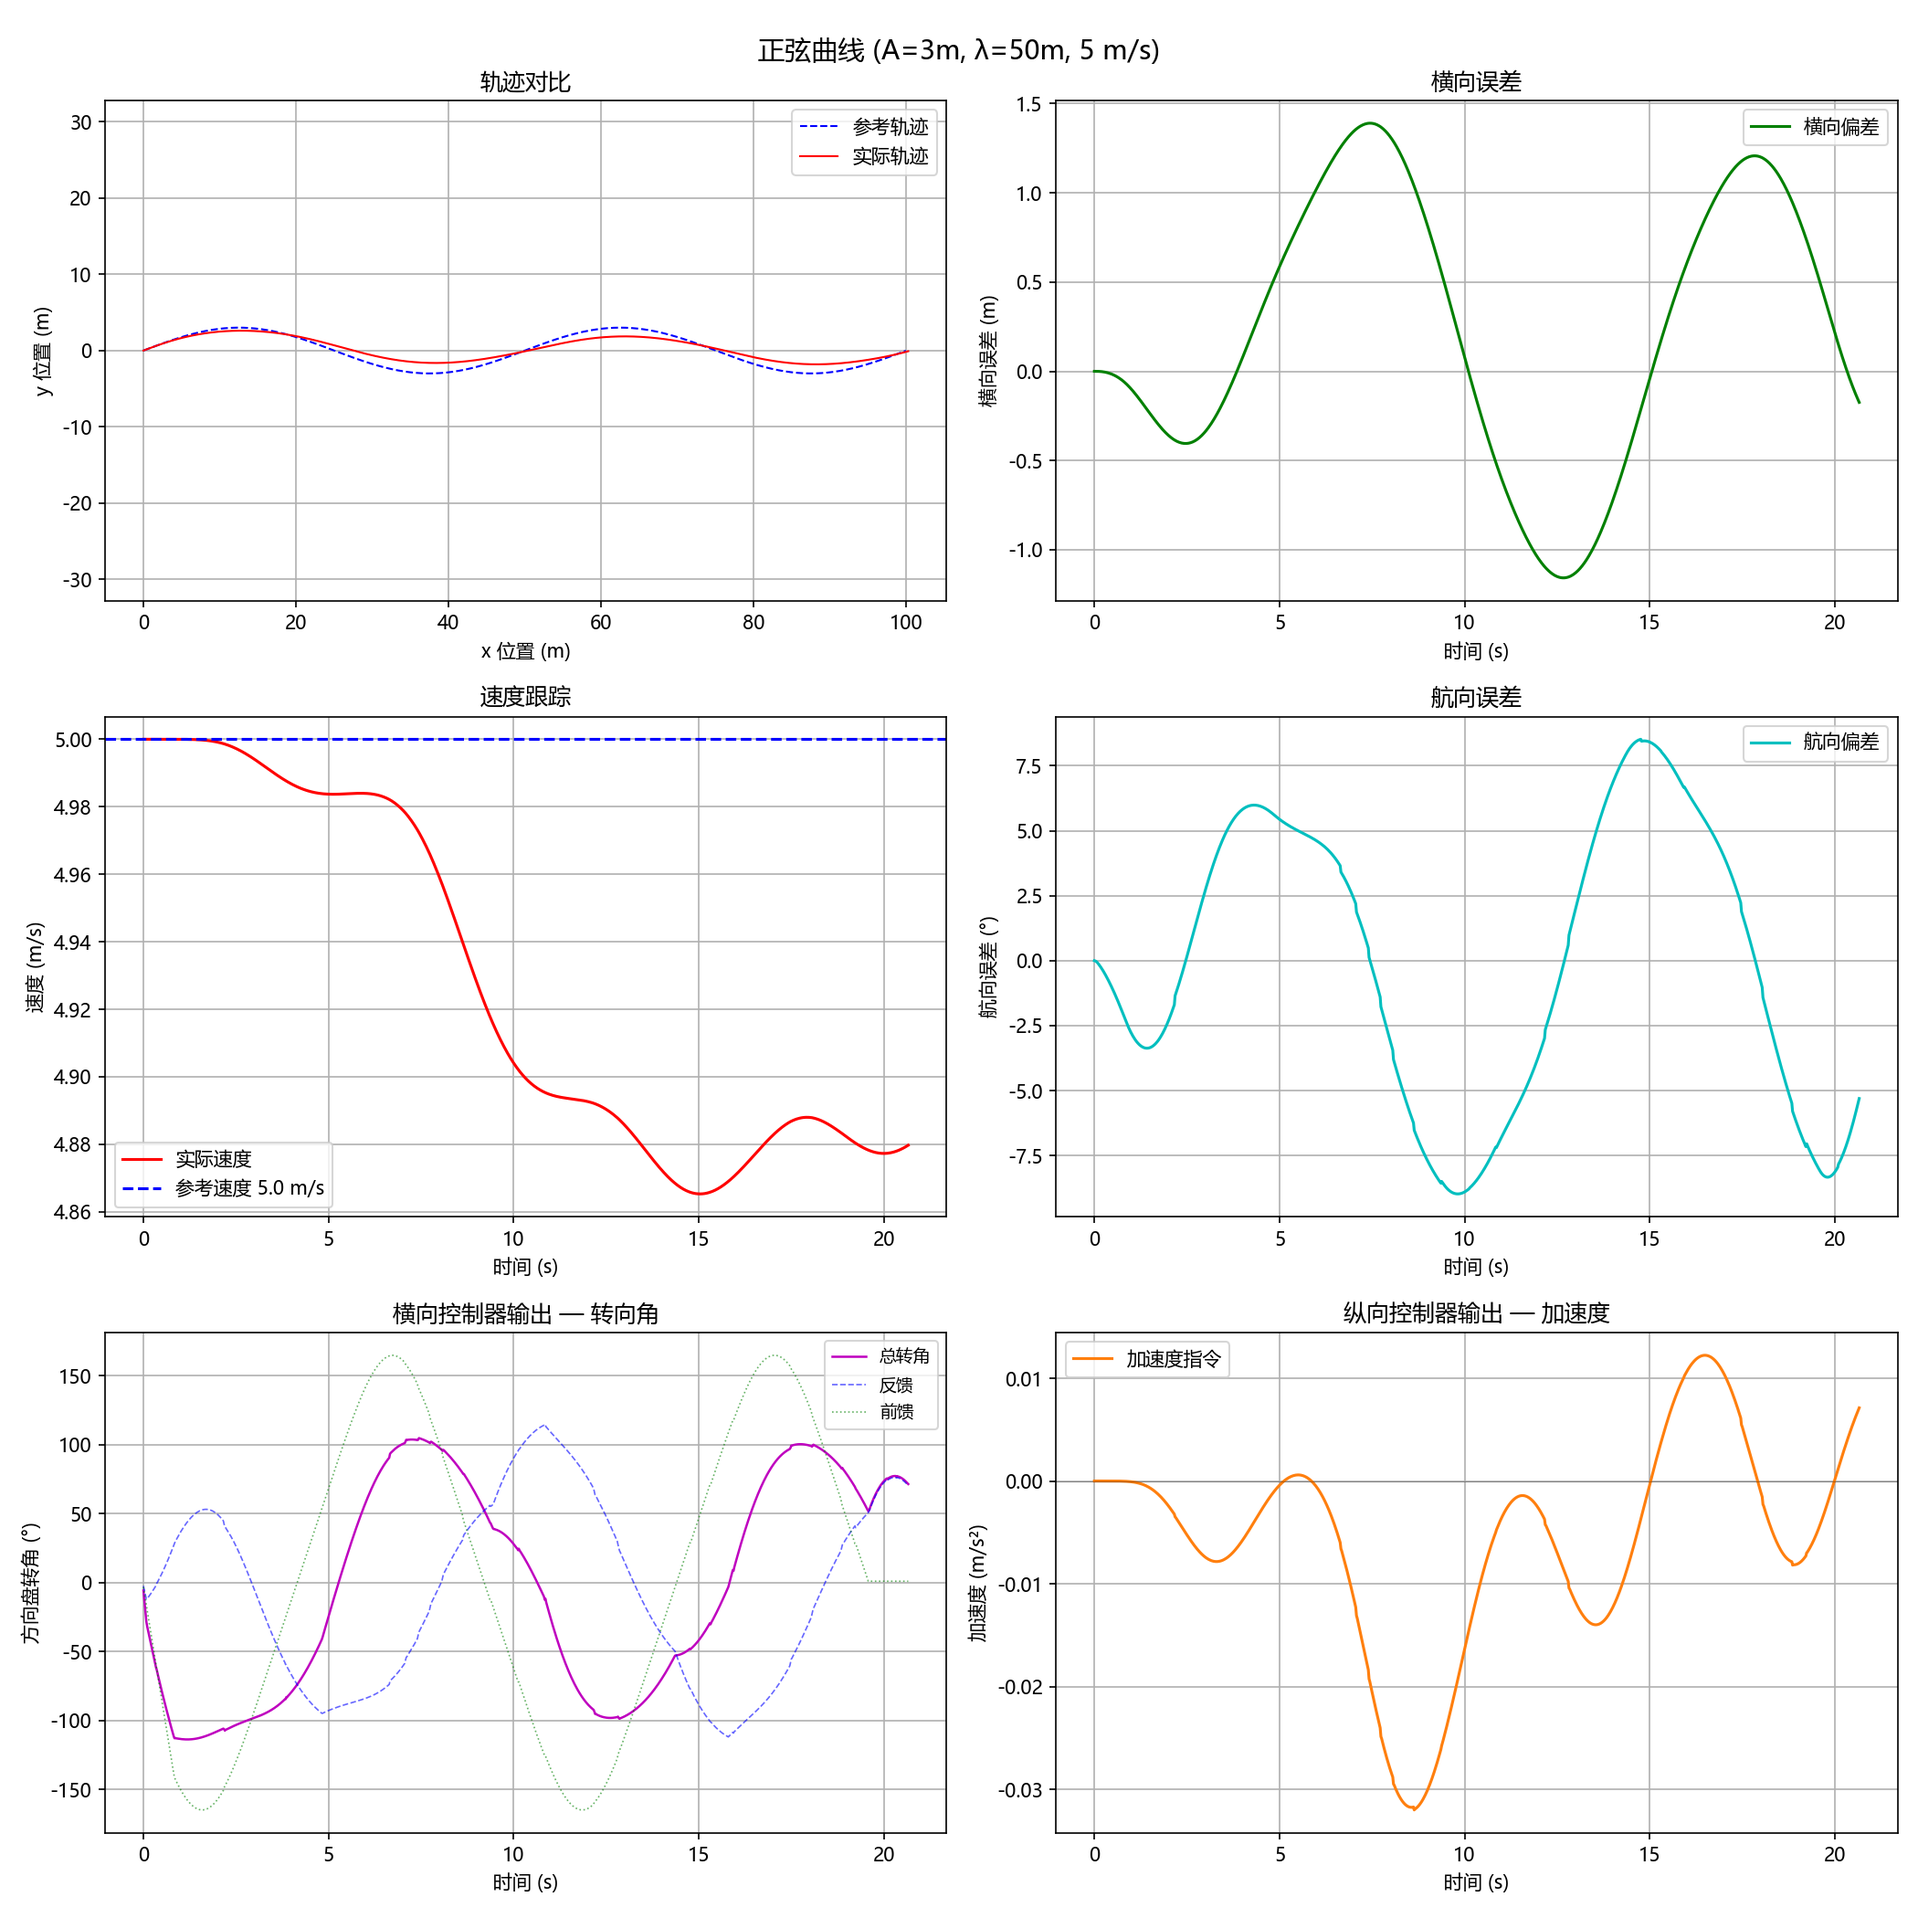
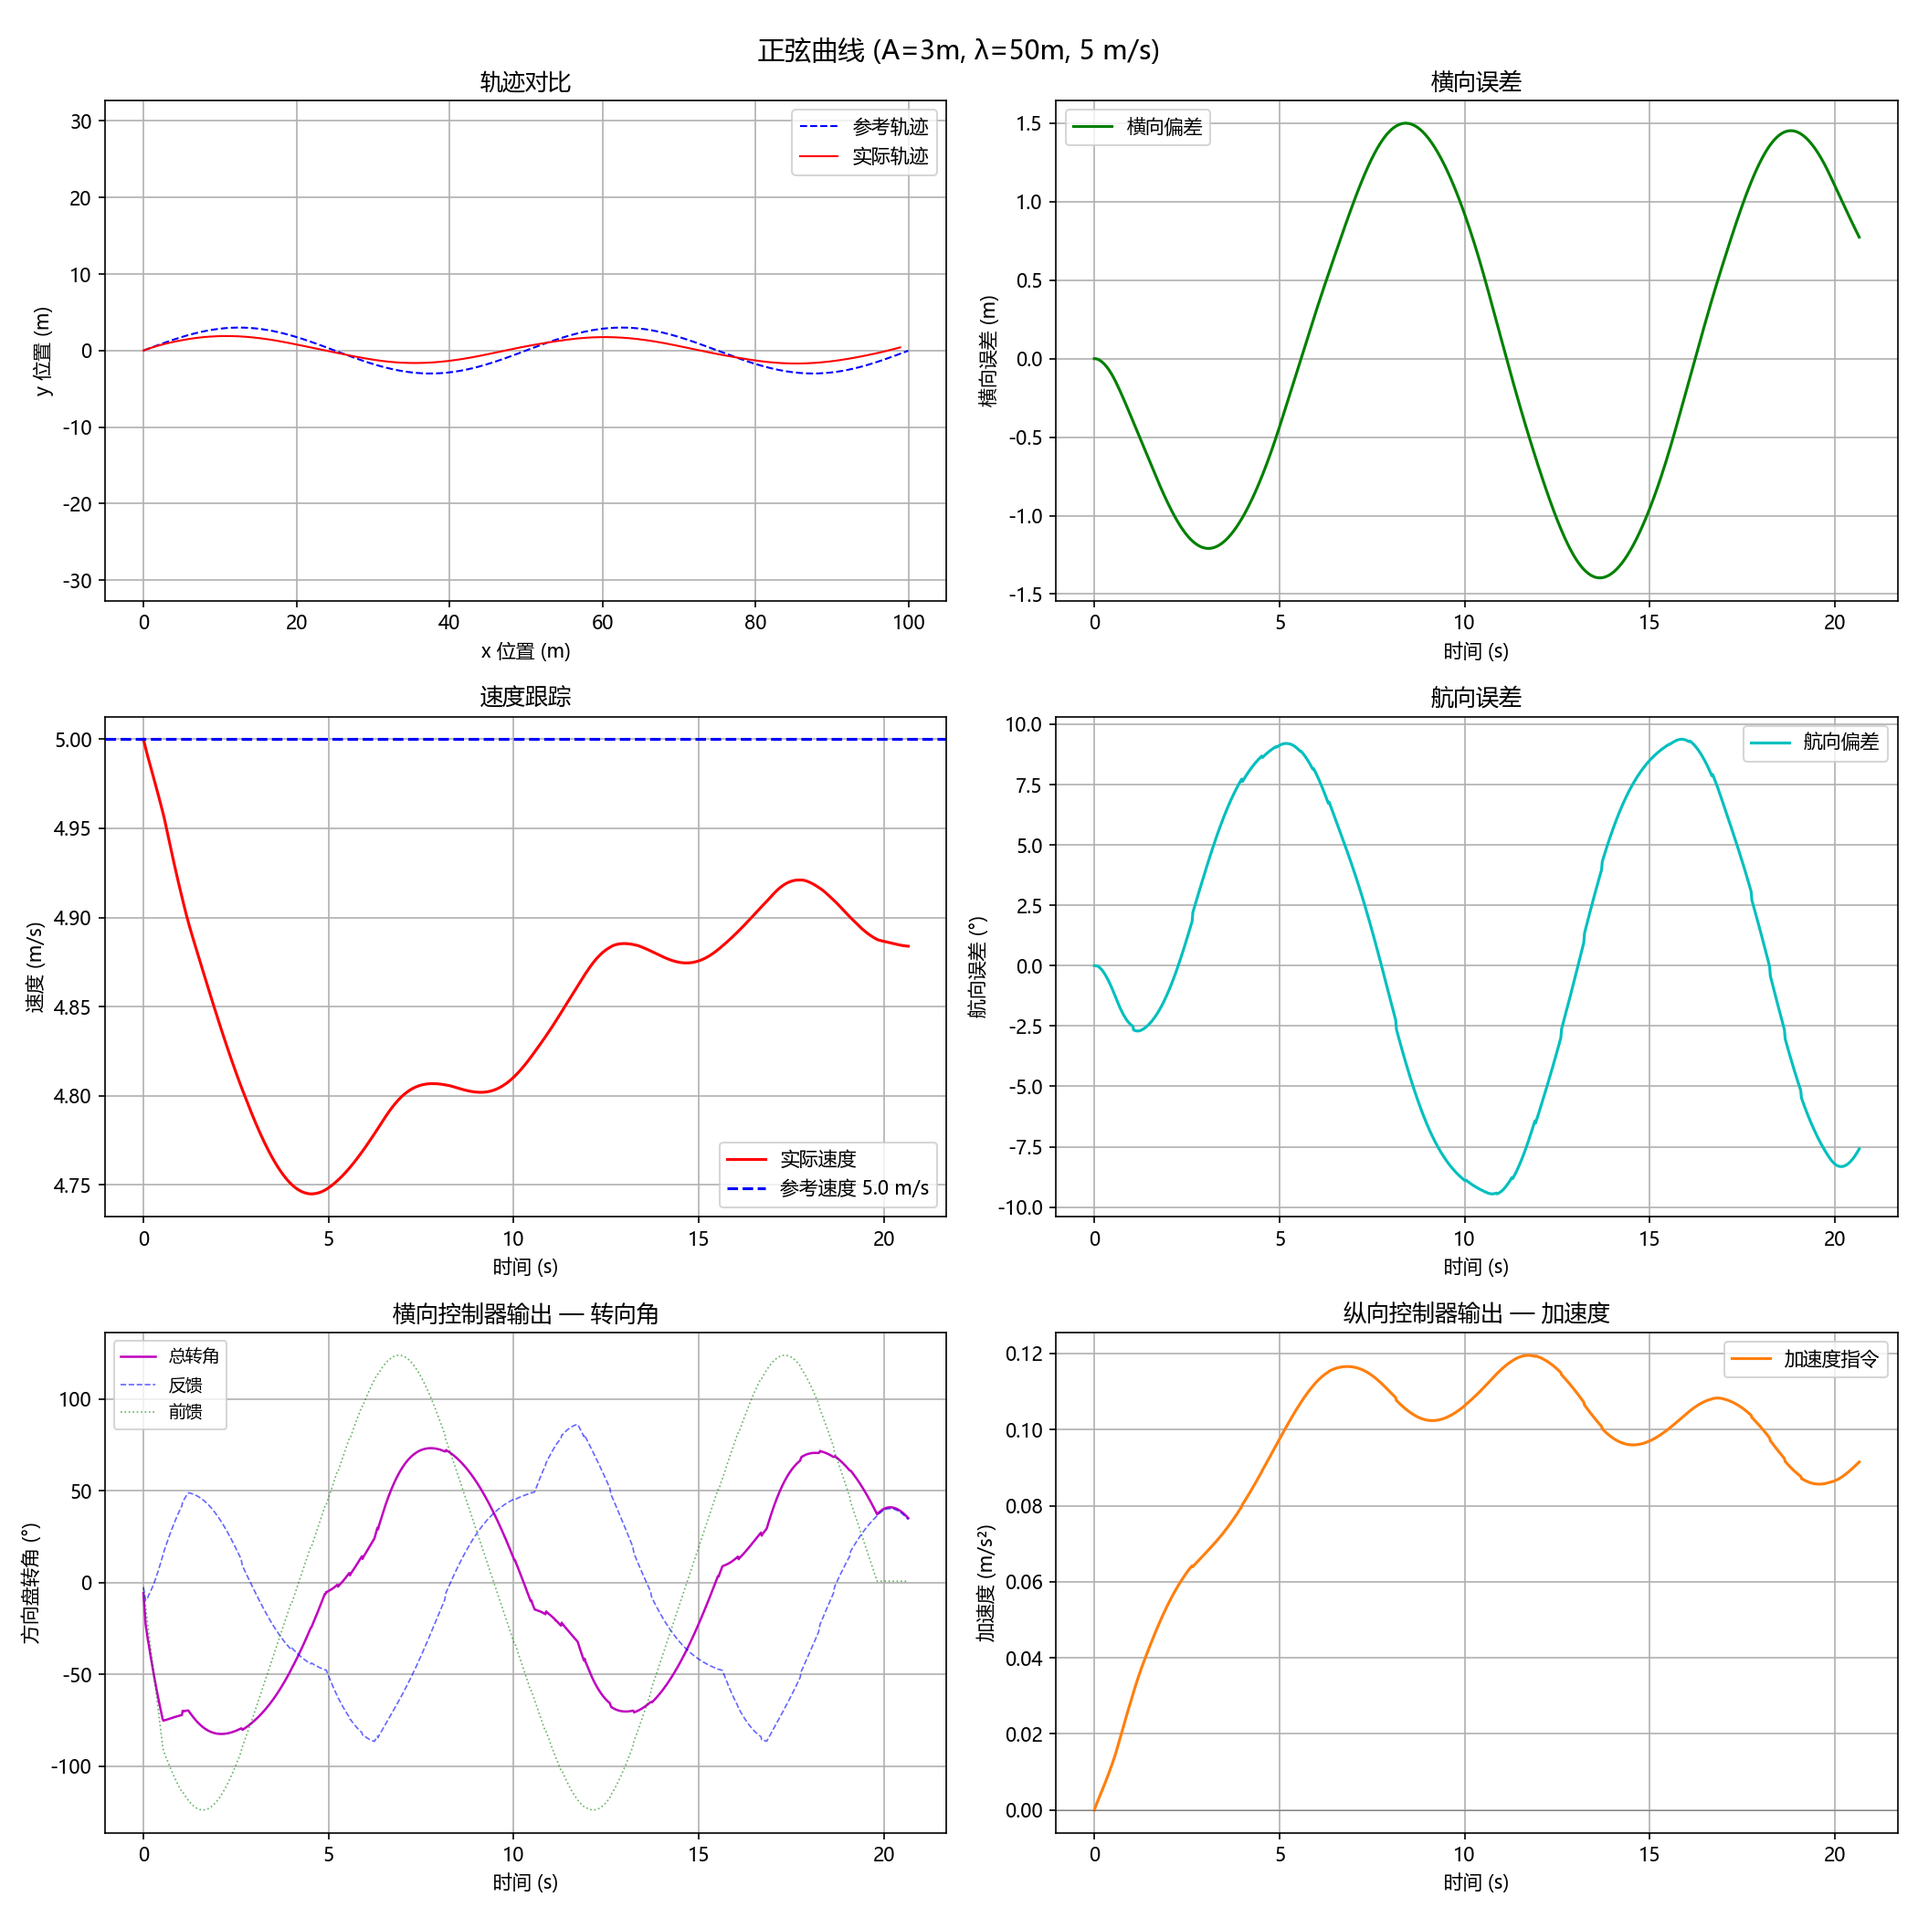
[sim] 修复：横向控制器在动力学模型下使用错误的 wheelbase 和 steer_ratio
根因：LatControllerTruck.__init__ 始终从 cfg['vehicle'] 读取 wheelbase=3.5
和 steer_ratio=17.5（运动学参数），但动力学模型实际 L=2.8m, SR=16.39。
前馈 steer_ff = atan(κ×3.5)×17.5 经 sim_loop 转换 delta=steer/16.39 后
前轮转角比正确值大 33%，导致车辆在圆弧上持续过度转向。

修复后圆弧 lat_rmse: 3.18m → 1.51m（-52%）。

diff --git a/sim/controller/lat_truck.py b/sim/controller/lat_truck.py
@@ -28,8 +28,14 @@ class LatControllerTruck(nn.Module):
         veh = cfg['vehicle']
         lat = cfg['lat_truck']
 
-        self.wheelbase = veh['wheelbase']
-        self.steer_ratio = veh['steer_ratio']
+        model_type = veh.get('model_type', 'kinematic')
+        if model_type == 'dynamic':
+            dyn = cfg['dynamic_vehicle']
+            self.wheelbase = dyn['lf'] + dyn['lr']
+            self.steer_ratio = dyn['steer_ratio']
+        else:
+            self.wheelbase = veh['wheelbase']
+            self.steer_ratio = veh['steer_ratio']
         self.differentiable = differentiable
 
         # 固定物理参数（不参与梯度优化）
